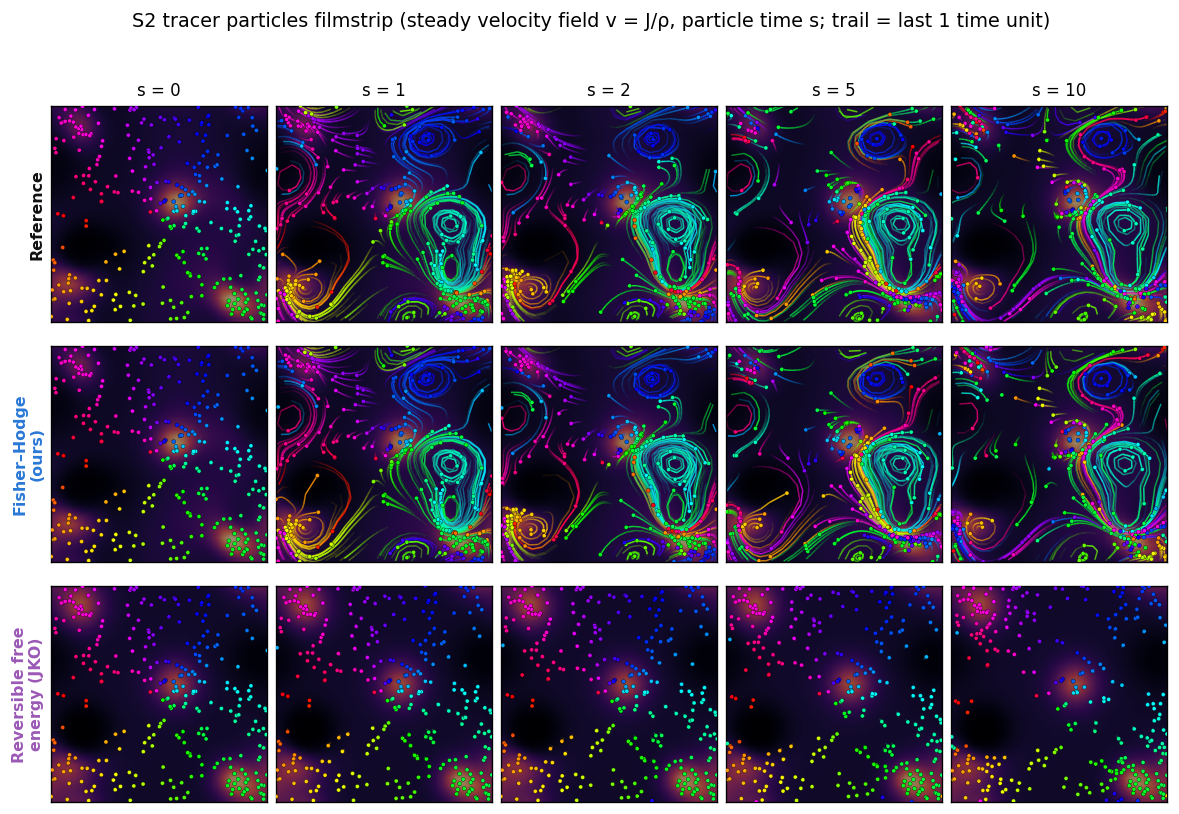
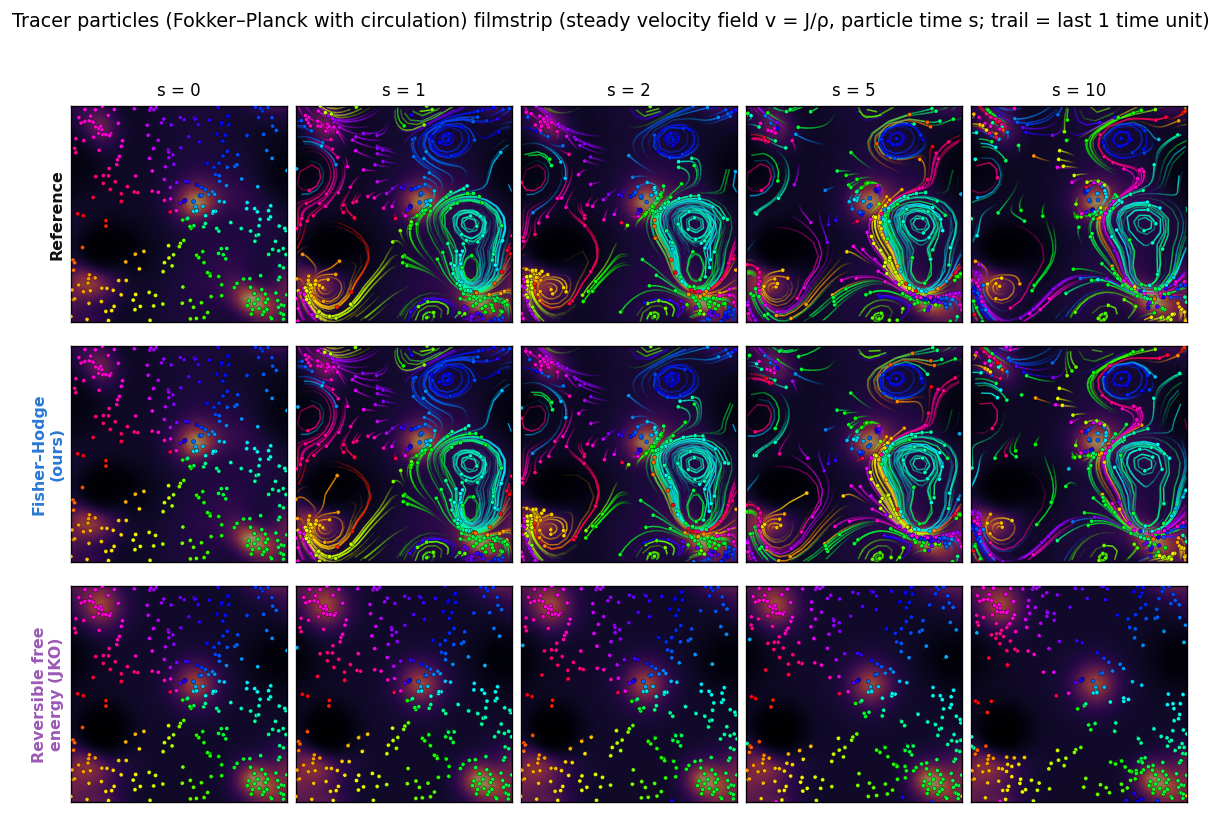
README: full system names with code names in parentheses; figure titles without code names

diff --git a/viz/viz_s2_flow.py b/viz/viz_s2_flow.py
@@ -41,7 +41,7 @@ for i, (m, rho, J) in enumerate(P):
         a.text(0.5, 0.5, 'steady flux ≈ 0\n(a reversible model\ncannot carry circulation)', transform=a.transAxes, ha='center', va='center', fontsize=10,
                color='white', fontweight='bold', bbox=dict(boxstyle='round,pad=0.4', fc=(0, 0, 0, 0.45), ec='none'))
 fig.colorbar(plt.cm.ScalarMappable(norm=norm, cmap=cmap), ax=ax, shrink=0.85, pad=0.01, label='steady-state density ρ(t=10T) (sqrt scale)')
-fig.suptitle('S2 streamlines of the probability flux J = ρv at steady state (t = 10T) (line width ∝ |J|; not drawn where |J| < 3% of the reference maximum): vortices present / vortices absent', fontsize=12)
+fig.suptitle('Steady-state probability flux J = ρv at t = 10T (Fokker–Planck with circulation; line width ∝ |J|; not drawn where |J| < 3% of the reference maximum): vortices present / vortices absent', fontsize=12)
 p = os.path.join(OUT, f'{tag}_flux_streamlines_t10T.png'); fig.savefig(p, bbox_inches='tight'); plt.close(fig)
 print('  wrote', p)
 
@@ -115,7 +115,7 @@ for i, (m, rho, J) in enumerate(P):
     sc = a.scatter(x0, y0, s=12, c=col, edgecolors='black', linewidths=0.3, zorder=3)
     axs.append(a); scs.append(sc); lcs.append(lc)
 txt = fig.text(0.5, 0.035, '', ha='center', fontsize=11)
-fig.suptitle(f'S2 tracer particles advected in each model\'s own steady velocity field v = J/ρ (same {NP} initial positions; colour = initial azimuth)', fontsize=12)
+fig.suptitle(f'Tracer particles (Fokker–Planck with circulation) advected in each model\'s own steady velocity field v = J/ρ (same {NP} initial positions; colour = initial azimuth)', fontsize=12)
 frames = []
 for k in range(nfr):
     for i in range(3):
@@ -143,6 +143,6 @@ for i, (m, rho, J) in enumerate(P):
             a.set_title(f's = {s}', fontsize=10)
         if j == 0:
             a.set_ylabel(wrap_label(LAB[m]), fontsize=9.5, fontweight='bold', color=LCOL[m] if m != 'truth' else '#111')
-fig.suptitle('S2 tracer particles filmstrip (steady velocity field v = J/ρ, particle time s; trail = last 1 time unit)', fontsize=11.5)
+fig.suptitle('Tracer particles (Fokker–Planck with circulation) filmstrip (steady velocity field v = J/ρ, particle time s; trail = last 1 time unit)', fontsize=11.5)
 p = os.path.join(OUT, f'{tag}_tracers_filmstrip.png'); fig.savefig(p, bbox_inches='tight'); plt.close(fig)
 print('  wrote', p)

diff --git a/viz/viz_s3_front.py b/viz/viz_s3_front.py
@@ -55,7 +55,7 @@ pax.set_xlabel('x (profile along the white dashed line in the heat maps; shape o
 for sp in ['top', 'right']:
     pax.spines[sp].set_visible(False)
 pax.legend(loc='upper left', bbox_to_anchor=(1.01, 1.0), fontsize=8.5, frameon=False)
-fig.suptitle('S3 Fisher–KPP front propagation (OOD growth-rate field): free reaction MLP overshoots to ~1.5, Fisher–Rao reaction saturates at 1', fontsize=12.5, y=0.985)
+fig.suptitle('Fisher–KPP reaction–diffusion (OOD growth-rate field): free reaction MLP overshoots to ~1.5, Fisher–Rao reaction saturates at 1', fontsize=12.5, y=0.985)
 banner = fig.text(0.5, 0.925, '', ha='center', fontsize=10.5, fontweight='bold')
 tl = Timeline(fig, [0.06, 0.03, 0.6, 0.035])
 frames = []
@@ -106,6 +106,6 @@ for j, (k, lab) in enumerate(TS):
 fig.legend(handles=[Patch(color='#c8ff9e', label='ρ ≈ 1.05'), Patch(color='#00b300', label='ρ ≥ 1.6'), Patch(color=NEG_SOFT, label='ρ < 0'), Patch(color=NEG_HARD, label='ρ ≪ 0')] +
            [plt.Line2D([], [], color=LC3[m], lw=2, label=LAB3[m]) for m, _ in P], loc='lower center', ncol=4, fontsize=8.5,
            frameon=False, bbox_to_anchor=(0.5, 0.045))
-fig.suptitle('S3 Fisher–KPP front propagation filmstrip (last row = profile along the white dashed line; green = above carrying capacity 1, darker = higher)', fontsize=12, y=0.92)
+fig.suptitle('Fisher–KPP reaction–diffusion filmstrip (last row = profile along the white dashed line; green = above carrying capacity 1, darker = higher)', fontsize=12, y=0.92)
 p = os.path.join(OUT, f'{tag}_filmstrip.png'); fig.savefig(p, bbox_inches='tight'); plt.close(fig)
 print('  wrote', p)

diff --git a/README.md b/README.md
@@ -23,35 +23,35 @@ The operator `dᵀ Θ d` is the Hodge block of Riemannian Hodge Message Passing 
 
 All rollouts train on one time unit (`T = 1`, 20 steps) and are tested out to `10 T`. The green frame marks the training window. Cyan and magenta cells are negative densities. The two numbers in each panel are the total mass and the minimum density.
 
-### Non-equilibrium Fokker–Planck (potential plus divergence-free drift)
+### Fokker–Planck with circulation (S2): potential plus divergence-free drift
 
-![S2 rollout](assets/s2_rollout.gif)
+![Non-equilibrium Fokker–Planck rollout](assets/s2_rollout.gif)
 
 The Fisher–Hodge operator stays on top of the reference solution for the whole rollout, with total mass equal to one and no negative cells. The Euclidean gradient-flow GNN produces negative densities inside the training window. The unstructured GNN-ODE roughly doubles the total mass by `10 T`.
 
-![S2 filmstrip](assets/s2_rollout_filmstrip.png)
+![Non-equilibrium Fokker–Planck filmstrip](assets/s2_rollout_filmstrip.png)
 
-### Steady-state circulation
+### Steady-state circulation (S2)
 
-![S2 flux streamlines](assets/s2_flux_streamlines.png)
+![Steady-state flux streamlines](assets/s2_flux_streamlines.png)
 
 At `10 T` the density no longer changes, but probability still flows around closed loops. The streamlines of the probability flux `J = ρ v` show these loops in the reference solution and in the Fisher–Hodge operator (peak flux 1.05 times the reference). A free-energy model that assumes reversible dynamics, trained in the style of Rancati, Maas and Locatello (2026), has a steady flux of one percent of the reference, so its panel is empty.
 
-![S2 tracers](assets/s2_tracers.gif)
+![Tracer particles](assets/s2_tracers.gif)
 
 The same point, seen through tracer particles advected by each model's own steady velocity field `v = J/ρ`. Particles in the reference and in the Fisher–Hodge field orbit the same loops. Particles in the reversible model barely move.
 
-### Reaction–diffusion (Fisher–KPP)
+### Fisher–KPP reaction–diffusion (S3)
 
-![S3 reaction](assets/s3_reaction.gif)
+![Reaction–diffusion rollout](assets/s3_reaction.gif)
 
 Green marks densities above the true carrying capacity of one. A free reaction network overshoots to 1.5, because the training trajectories never reach saturation and the carrying capacity is not identifiable from them. The Fisher–Rao reaction term saturates at 1.00 and recovers the carrying capacity and the growth rate from the same data. The GNN-ODE never grows and develops a negative pocket.
 
-![S3 filmstrip](assets/s3_reaction_filmstrip.png)
+![Reaction–diffusion filmstrip](assets/s3_reaction_filmstrip.png)
 
-### Mobility outside the model class
+### Crowding mobility, outside the model class (S5)
 
-![S5 misspecified](assets/s5_misspecified.gif)
+![Crowding mobility rollout](assets/s5_misspecified.gif)
 
 The reference solver here uses a crowding mobility `ρ(1 − ρ)`, which the operator cannot represent exactly. Its error grows from 0.003 to 0.02, and mass conservation and positivity still hold. The Euclidean gradient-flow model drifts in mass and goes negative as before.
 
@@ -69,14 +69,14 @@ Relative L2 error at `10 T`, median over 16 test trajectories, mean over three s
 
 | System | Fisher–Hodge | Euclidean gradient-flow GNN | GNN-ODE | Reversible free energy (JKO) |
 |---|---|---|---|---|
-| S1 Fokker–Planck | 0.0034 / 0.017 / 0.0026 | 0.25 / 0.27 / 0.15 | 0.29 / 1.48 / 0.32 | 0.0086 / 0.017 / 0.0093 |
-| S2 with circulation | 0.0033 / 0.014 / 0.0032 | 0.030 / 0.069 / 0.031 | 0.26 / 0.96 / 0.30 | 0.25 / 0.46 / 0.25 |
-| S3 Fisher–KPP | 0.017 / 0.016 / 0.013 | 3.6 / 3.8 / 3.7 | 0.90 / 2.4 / 0.90 | – |
-| S5 crowding mobility (one seed) | 0.020 / 0.022 / 0.016 | 0.096 / 0.195 / 0.162 | – | – |
+| Fokker–Planck (S1) | 0.0034 / 0.017 / 0.0026 | 0.25 / 0.27 / 0.15 | 0.29 / 1.48 / 0.32 | 0.0086 / 0.017 / 0.0093 |
+| Fokker–Planck with circulation (S2) | 0.0033 / 0.014 / 0.0032 | 0.030 / 0.069 / 0.031 | 0.26 / 0.96 / 0.30 | 0.25 / 0.46 / 0.25 |
+| Fisher–KPP reaction–diffusion (S3) | 0.017 / 0.016 / 0.013 | 3.6 / 3.8 / 3.7 | 0.90 / 2.4 / 0.90 | – |
+| Crowding mobility, outside the model class (S5, one seed) | 0.020 / 0.022 / 0.016 | 0.096 / 0.195 / 0.162 | – | – |
 
 Mass drift of the Fisher–Hodge operator is below 4e-7 in every run, and no test trajectory contains a negative cell. Full tables are in `results/`.
 
-Two caveats. The GNN-ODE baseline was trained for 4000 steps and its loss was still falling. A longer run was interrupted at 7000 steps with a loss three times lower, so the GNN-ODE column overstates the gap. The reference solvers for S1 to S3 lie inside the operator's model class. The S4 and S5 systems are the first tests outside it, and a system with non-local interactions has not been run.
+Two caveats. The GNN-ODE baseline was trained for 4000 steps and its loss was still falling. A longer run was interrupted at 7000 steps with a loss three times lower, so the GNN-ODE column overstates the gap. The reference solvers for the three main systems (S1 to S3) lie inside the operator's model class. The nonlinear-mobility systems (S4, S5) are the first tests outside it, and the non-local system (S6) has not been run.
 
 ## What the Hodge structure contributes, and where the gaps come from
 
@@ -92,22 +92,22 @@ K = dᵀ H d
 H_e(ρ) = κ_e · Λ(ρ_i, ρ_j),      Λ(a, b) = (a − b) / (log a − log b),
 ```
 
-where `Λ` is the logarithmic mean of the two endpoint densities and `κ_e > 0` is learned. The same difference in potential therefore drives different amounts of flow at different densities. This choice of `H` is the Otto metric of discrete Wasserstein transport (Maas 2011). The circulation term adds a second driving field on the edges. The S2 model reads
+where `Λ` is the logarithmic mean of the two endpoint densities and `κ_e > 0` is learned. The same difference in potential therefore drives different amounts of flow at different densities. This choice of `H` is the Otto metric of discrete Wasserstein transport (Maas 2011). The circulation term adds a second driving field on the edges. For Fokker–Planck with circulation (S2) the model reads
 
 ```
 dρ/dt = − dᵀ [ κ Λ(ρ) d μ   +   Λ(ρ) c_θ ].
             gradient transport    extra drive
 ```
 
-A reversible JKO model has only the first term, so its net flow vanishes at a true steady state. The S2 reference system keeps a non-zero probability current at steady state, and the second term is what lets the Fisher–Hodge operator represent it. Against the reversible baseline, the first thing the method settles is therefore whether the true dynamics can be expressed at all.
+A reversible JKO model has only the first term, so its net flow vanishes at a true steady state. The reference system with circulation (S2) keeps a non-zero probability current at steady state, and the second term is what lets the Fisher–Hodge operator represent it. Against the reversible baseline, the first thing the method settles is therefore whether the true dynamics can be expressed at all.
 
 Three points keep this comparison honest.
 
-First, the JKO baseline uses the same logarithmic-mean mobility. Both model classes carry the same transport geometry, so the large gap on S2 cannot be read as "Fisher–Hodge has information geometry and JKO does not". The gap on S2 comes from the circulation term. On S1, where no circulation exists, the two models are within a factor of three of each other.
+First, the JKO baseline uses the same logarithmic-mean mobility. Both model classes carry the same transport geometry, so the large gap on Fokker–Planck with circulation (S2) cannot be read as "Fisher–Hodge has information geometry and JKO does not". That gap comes from the circulation term. On plain Fokker–Planck (S1), where no circulation exists, the two models are within a factor of three of each other.
 
 Second, the diffusion law is written into the structure, which makes the learning problem easier. The chemical potential contains `log ρ`, and the logarithmic mean satisfies `Λ(ρ_i, ρ_j) (log ρ_j − log ρ_i) = ρ_j − ρ_i`. This term alone produces the standard discrete diffusion operator. The network learns the coefficients `κ`, a correction to the potential, and how the drive acts. The inputs also include the true potential `U` and the two fields `dpsi` and `psin` that generate the drive, so the task is to learn the evolution given these fields. The baselines receive the same inputs.
 
-Third, conservation and positivity help long rollouts. Because the flows are assembled through `dᵀ`, the total mass of S2 is conserved exactly. The integrator uses adaptive substeps to keep the density positive. Both mechanisms reduce mass drift and numerical blow-up far beyond the training window. The GNN and Euclidean baselines integrate differently, and the GNN was not trained to convergence, so the gap to them mixes model structure, numerics and optimisation.
+Third, conservation and positivity help long rollouts. Because the flows are assembled through `dᵀ`, the total mass is conserved exactly. The integrator uses adaptive substeps to keep the density positive. Both mechanisms reduce mass drift and numerical blow-up far beyond the training window. The GNN and Euclidean baselines integrate differently, and the GNN was not trained to convergence, so the gap to them mixes model structure, numerics and optimisation.
 
 The evidence supports the following attribution.
 
@@ -137,6 +137,17 @@ results/        summary tables of the first round, the stress tests and the Mark
 
 ## Running
 
+In the code the systems carry short names, which the text above gives in parentheses:
+
+| Name in code | System |
+|---|---|
+| `S1` | Fokker–Planck with a random smooth potential |
+| `S2` | Fokker–Planck plus a divergence-free drift (steady circulation) |
+| `S3` | Fisher–KPP reaction–diffusion |
+| `S4` | nonlinear mobility `ρ^1.5` |
+| `S5` | crowding mobility `ρ(1 − ρ)` |
+| `S6` | non-local interaction (not run yet) |
+
 Set `FH_ROOT` to the repository root. Data and checkpoints go to `$FH_ROOT/runs/`.
 
 ```bash
@@ -155,7 +166,7 @@ To make the figures, first cache full rollouts of the trained checkpoints, then 
 
 ```bash
 python viz/rollout_all.py S2
-python viz/viz_grid.py S2 S2 test_oodpot 0 fisher_hodge,euclid_gf,gnn_ode "S2"
+python viz/viz_grid.py S2 S2 test_oodpot 0 fisher_hodge,euclid_gf,gnn_ode "Fokker–Planck with circulation"
 python viz/viz_s2_flow.py test_oodpot 0
 python viz/viz_markov_hodge.py
 ```
